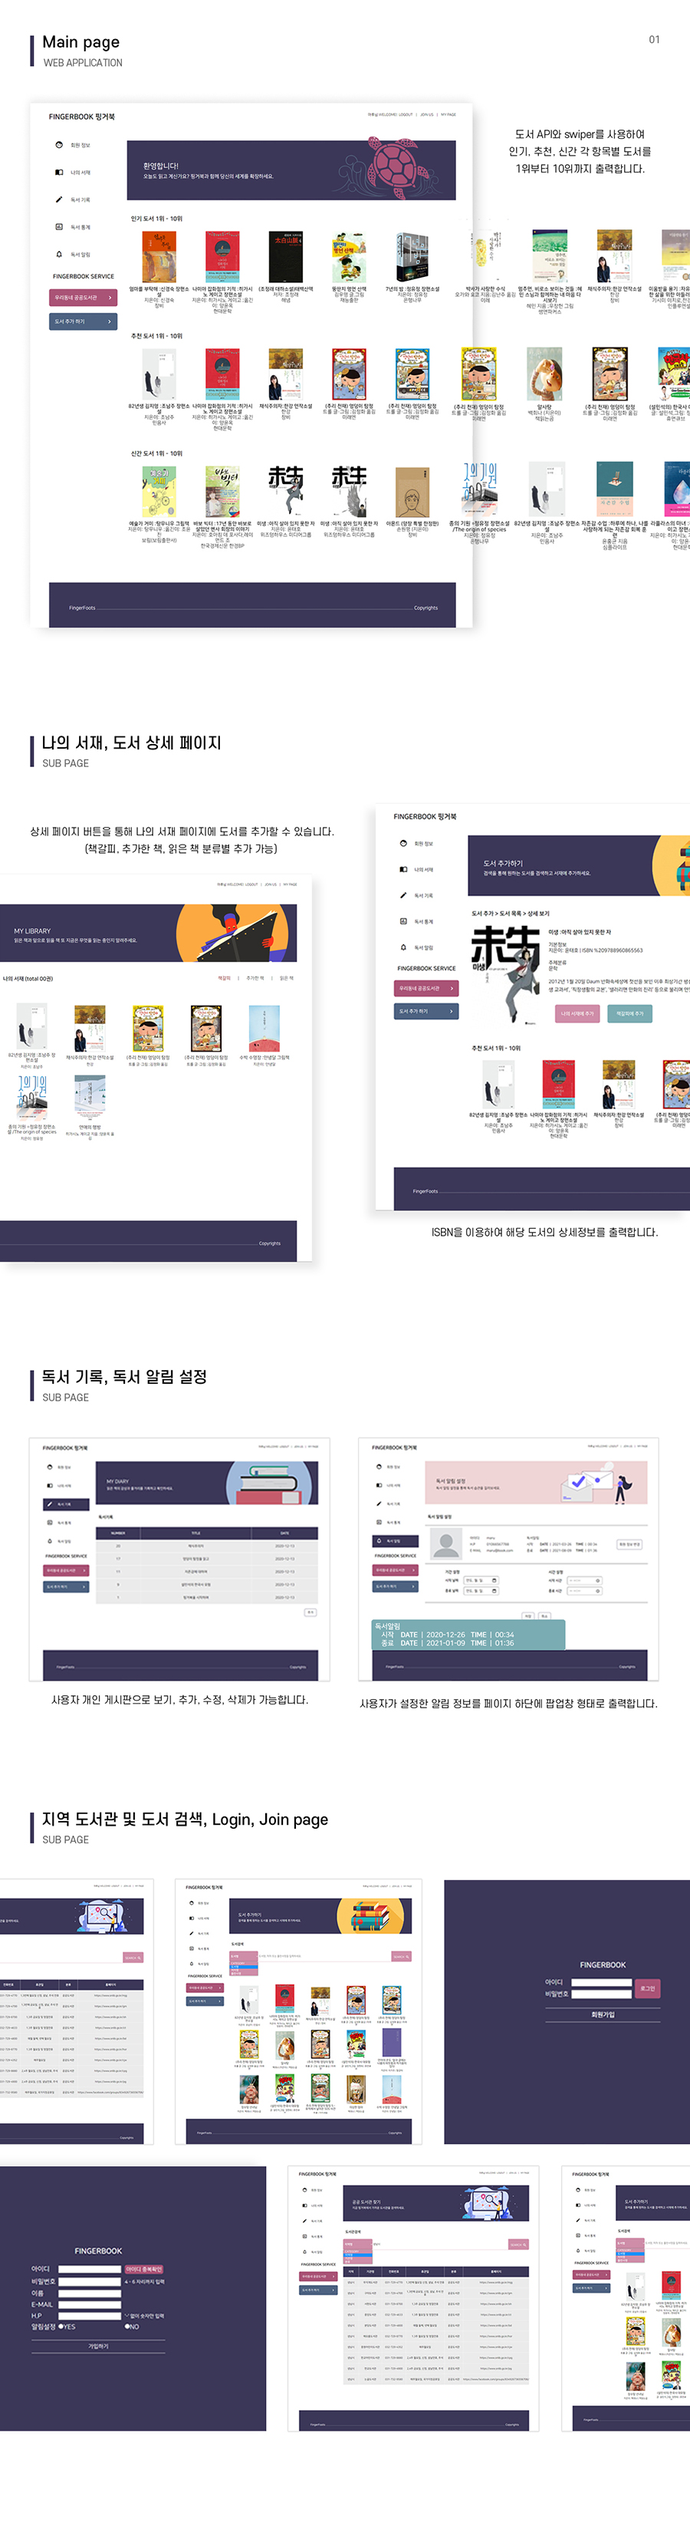
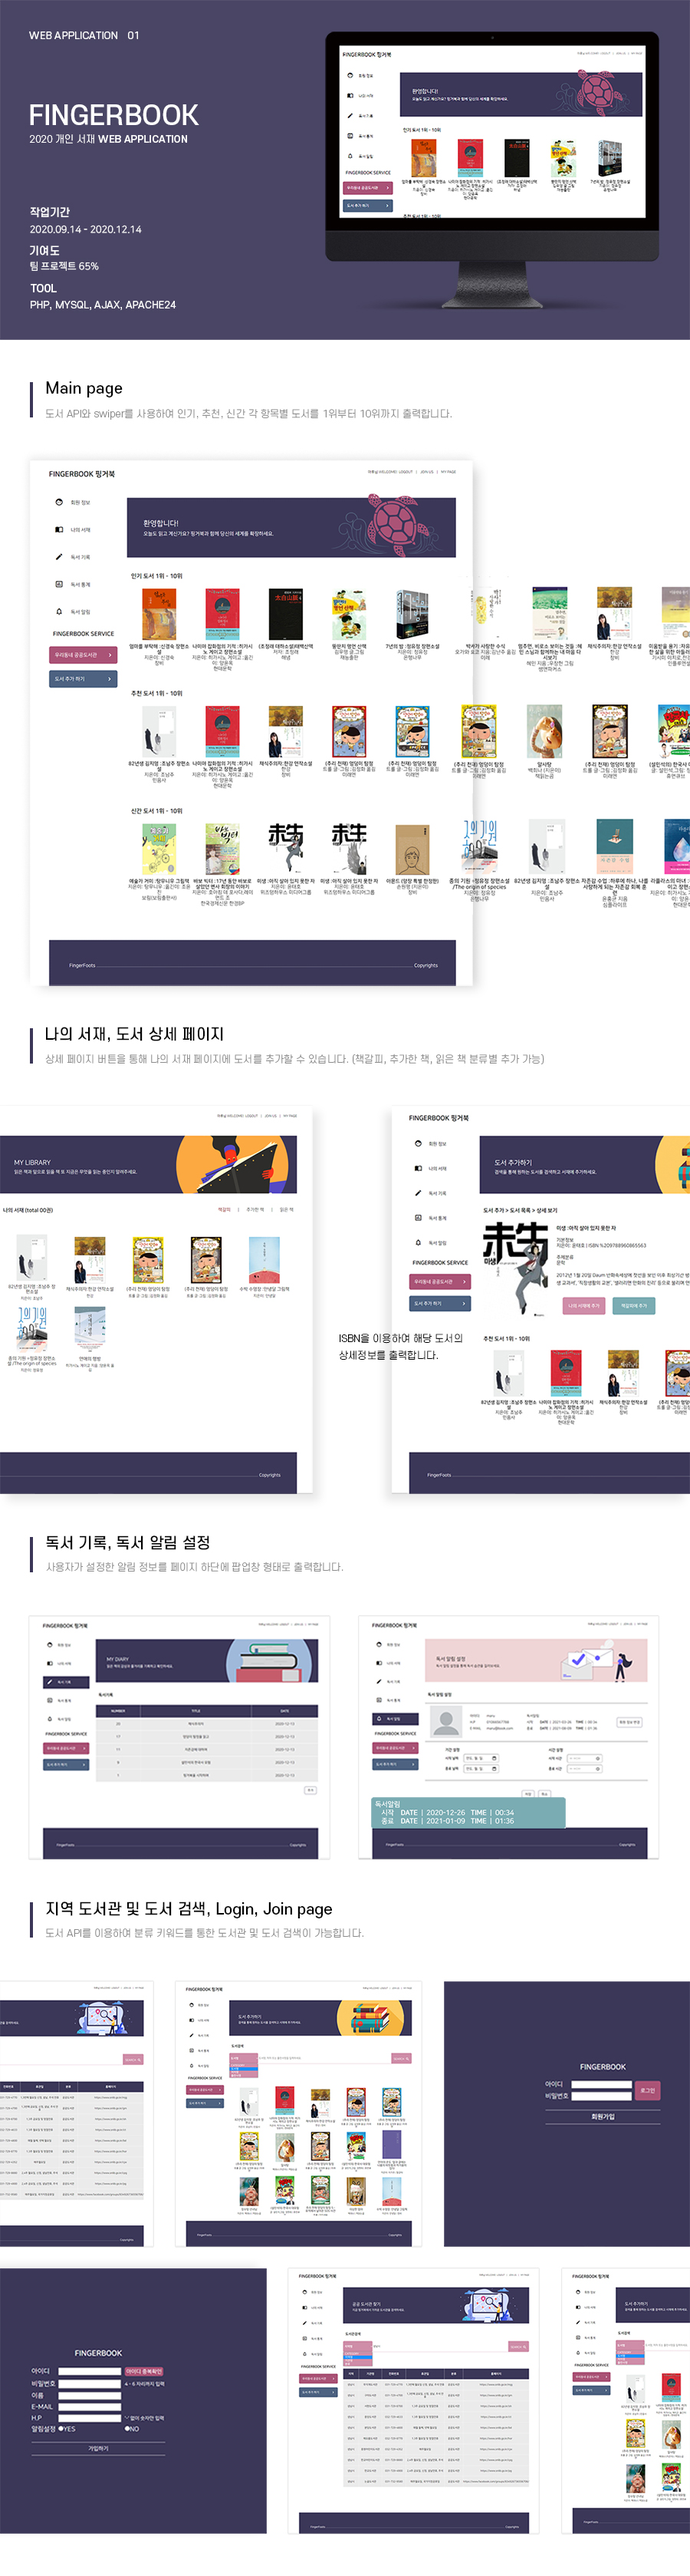
210812

diff --git a/code/main.html b/code/main.html
@@ -139,7 +139,7 @@
                             <li>온라인 개인 서재 서비스</li>
                             <li>웹 애플리케이션 기획 및 제작</li>
                             <li>도서 API 사용, DB구축</li>
-                            <li>기여도 70%</li>
+                            <li>기여도 65%</li>
                             <li></li>
                         </ul>
                     </div>
@@ -166,13 +166,11 @@
                     <div class="swiper-slide"><!--03-->
                         <ul class="sec4_title">
                             <li class="sec4_s">RESPONSIBLE WEB</li>
-                            <li class="sec4_b">AMUSE</li>
+                            <li class="sec4_b">AMUSE RENEWAL</li>
                             <li class="sec4_s">MAIN, SUB(2), MOBILE</li>
                         </ul>
                         <div class="sec4_btn">
-                            <button class="AMUSE" id="c_btn3">VIEW WEB
-                            </button>
-                            <button onclick="pagePop('img/pg_03.jpg', 3)" class="AMUSE" id="p_btn3">VIEW MOBILE</button>
+                            <button onclick="pagePop('img/pg_03.jpg', 3)" class="AMUSE" id="p_btn3">VIEW PAGE</button>
                         </div>
                         <div class="sec4_img"><img src="img/pf_03.png"></div>
                         <ul class="sec4_txt">      
@@ -192,13 +190,13 @@
                         <div class="sec4_btn">
                             <button onclick="window.open('balenciaga/balenciaga_main.html')" class="BALENCIAGA" id="c_btn4">VIEW SITE
                             </button>
-                            <button onclick="pagePop('img/', 4)" class="BALENCIAGA" id="p_btn4">VIEW PAGE</button>
+                            <button onclick="pagePop('img/pg_04.jpg', 4)" class="BALENCIAGA" id="p_btn4">VIEW PAGE</button>
                         </div>
                         <div class="sec4_img"><img src="img/pf_04.png"></div>
                         <ul class="sec4_txt">
                             <li>웹 사이트 리뉴얼</li>
                             <li>웹 페이지 디자인 및 구현</li>
-                            <li>기여도 100%</li>
+                            <li>기여도 80%</li>
                             <li></li>
                             <li></li>
                         </ul>                       
@@ -211,7 +209,7 @@
                         </ul>
                         <div class="sec4_btn">
                             <button onclick="pagePop('', 5)" class="LIFE" id="p_btn5">PROTOTYPE</button>
-                             <button onclick="" class="LIFE" id="c_btn5">VIEW PAGE</button>
+                             <button onclick="pagePop('img/pg_05.jpg', 5)" class="LIFE" id="c_btn5">VIEW PAGE</button>
                         </div>
                         <div class="sec4_img" id="mobile_img"><img src="img/pf_06_1.png"><img src="img/pf_06_2.png"></div>
                         <ul class="sec4_txt">

diff --git a/code/js/common.js b/code/js/common.js
@@ -114,13 +114,14 @@ $(document).ready(function() {
         });       
    }
 
+//PagePopup
 function pagePop(url, i){
     var nm = $('#p_btn'+i).attr('class');
     var url = url;
     var num = i;
 //    alert(num);
 //    alert(nm);
-    if(num == 5){
+    if(url==''&&num == 5){
         var popup = window.open('', '_blank','width=390, height=667, scrollbars=no');
         popup.document.write("<title>"+nm+"</title>");
         popup.document.write("<iframe width='375' height='667' src='https://xd.adobe.com/embed/3d0e9b22-4258-4bc3-9f45-35ea5a3220d1-685d/' frameborder='0' allowfullscreen></iframe>");
